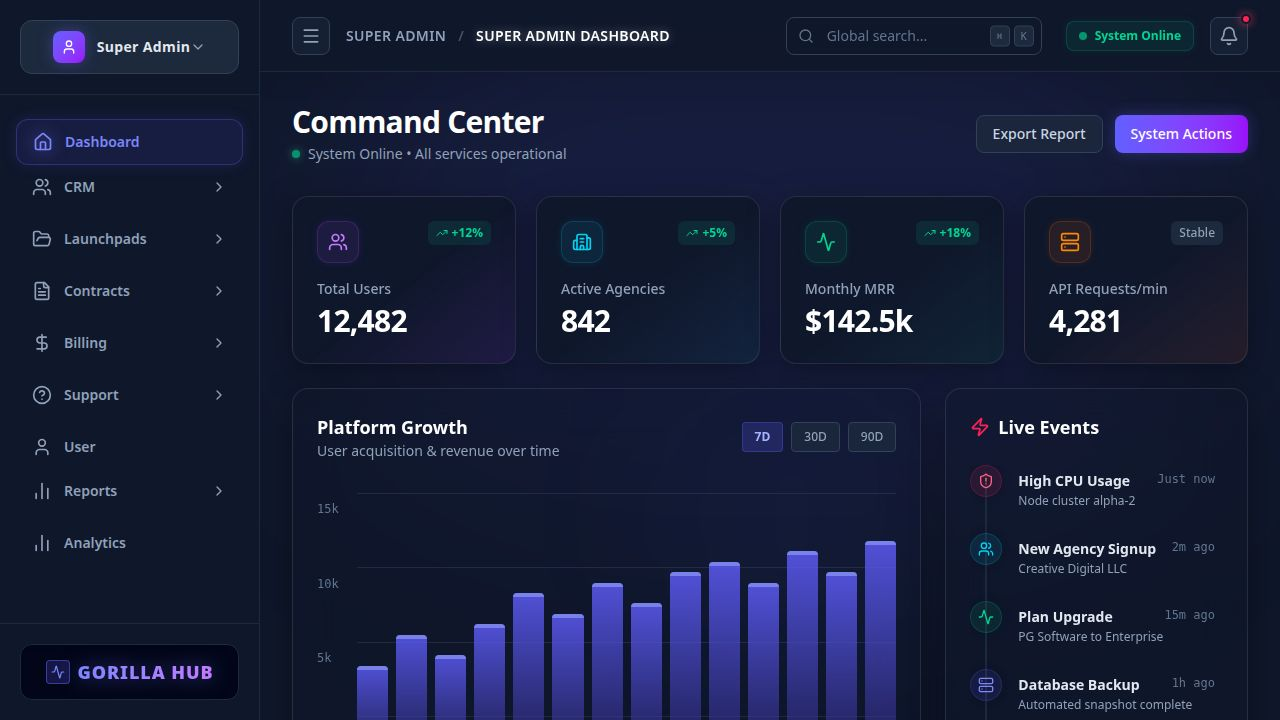
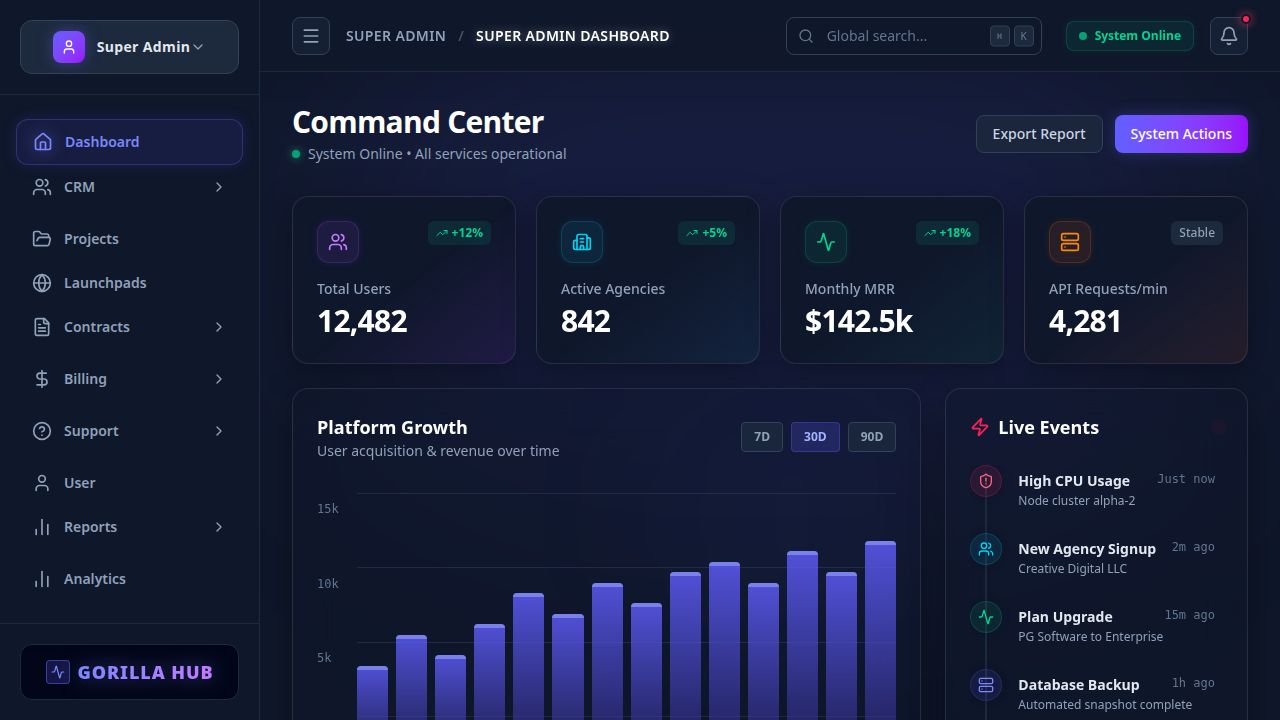
Restructure sidebar navigation and create a dedicated Launchpads page
Update sidebar to separate Projects and Launchpads menus, and introduce a new Launchpads page with detailed project status tracking and management.

Replit-Commit-Author: Agent
Replit-Commit-Session-Id: 2b1c598c-acd6-4f96-ad45-b88a8fb73bb7
Replit-Commit-Checkpoint-Type: full_checkpoint
Replit-Commit-Event-Id: b801060e-dcdf-4483-834c-e267e3411bb5
Replit-Commit-Screenshot-Url: https://storage.googleapis.com/screenshot-production-us-central1/fe088c88-ea6c-465e-aa79-47f37c69ca68/2b1c598c-acd6-4f96-ad45-b88a8fb73bb7/l659ELX
Replit-Helium-Checkpoint-Created: true

diff --git a/client/src/pages/launchpads.tsx b/client/src/pages/launchpads.tsx
@@ -1,0 +1,149 @@
+import { useState } from "react";
+import { Sidebar, Header } from "./clients";
+import { Button } from "@/components/ui/button";
+import { Search, Filter, Download, Plus, Edit, Trash2, Clock, CheckCircle2, PauseCircle, PlayCircle, MoreHorizontal } from "lucide-react";
+import { Link, useLocation } from "wouter";
+
+export default function LaunchpadsPage() {
+  const [location] = useLocation();
+  const [activeFilter, setActiveFilter] = useState('All');
+  
+  const stats = [
+    { label: 'Not Started', count: 3, colorClass: 'border-slate-500', icon: Clock, iconColor: 'text-slate-400', filterValue: 'Not Started' },
+    { label: 'In Progress', count: 2, colorClass: 'border-blue-500', icon: PlayCircle, iconColor: 'text-blue-400', filterValue: 'In Progress' },
+    { label: 'On Hold', count: 0, colorClass: 'border-yellow-500', icon: PauseCircle, iconColor: 'text-yellow-400', filterValue: 'On Hold' },
+    { label: 'Pending Approval', count: 0, colorClass: 'border-orange-500', icon: Clock, iconColor: 'text-orange-400', filterValue: 'Pending Approval' },
+    { label: 'Completed', count: 0, colorClass: 'border-emerald-500', icon: CheckCircle2, iconColor: 'text-emerald-400', filterValue: 'Completed' },
+  ];
+
+  const launchpads = [
+    { name: "Landscaper", client: "Pink Gorilla Software", creator: "Jitender", creatorImg: "J", status: "In Progress" },
+    { name: "Demo 5", client: "Pink Gorilla Software", creator: "PG", creatorImg: "PG", status: "Not Started" },
+    { name: "Test2", client: "Pink Gorilla Software", creator: "Jitender", creatorImg: "J", status: "Not Started" },
+    { name: "Demo 4", client: "Vin Gardner", creator: "PG", creatorImg: "PG", status: "Not Started" },
+    { name: "Demo 3", client: "Pink Gorilla Software", creator: "PG", creatorImg: "PG", status: "In Progress" },
+  ];
+
+  const filteredLaunchpads = activeFilter === 'All' 
+    ? launchpads 
+    : launchpads.filter(l => l.status === activeFilter);
+
+  return (
+    <div className="h-screen w-full overflow-hidden bg-transparent flex font-sans text-[#e2e8f0]">
+      <Sidebar openMenus="" toggleMenu={() => {}} currentPath={location} />
+      
+      <div className="flex-1 flex flex-col min-w-0 bg-[#0f172a] relative">
+        <Header title="Launchpads" />
+        
+        <div className="flex flex-1 overflow-hidden relative z-10">
+          <main className="flex-1 overflow-y-auto p-6 lg:p-8 scrollbar-hide">
+            <div className="max-w-7xl mx-auto space-y-6">
+              
+              {/* Stats Cards Row */}
+              <div className="grid grid-cols-2 md:grid-cols-5 gap-4">
+                {stats.map((stat, idx) => (
+                  <div 
+                    key={idx}
+                    onClick={() => setActiveFilter(stat.filterValue)}
+                    className={`glass-panel p-4 rounded-xl border-t cursor-pointer transition-all hover:-translate-y-1 ${stat.colorClass} ${activeFilter === stat.filterValue ? 'bg-slate-800/50 shadow-[inset_0_-4px_10px_-4px_rgba(255,255,255,0.1)]' : ''}`}
+                  >
+                    <div className="flex items-center gap-3 mb-2">
+                      <div className={`p-1.5 rounded-lg bg-slate-800/80 border border-slate-700`}>
+                        <stat.icon className={`w-4 h-4 ${stat.iconColor}`} />
+                      </div>
+                      <span className="text-sm font-semibold text-slate-300">{stat.label}</span>
+                    </div>
+                    <div className="text-2xl font-bold text-white ml-1">{stat.count}</div>
+                  </div>
+                ))}
+              </div>
+
+              {/* Action Bar */}
+              <div className="flex flex-col md:flex-row justify-between items-center gap-4 glass-panel p-4 rounded-xl">
+                <div className="flex items-center gap-3 w-full md:w-auto">
+                  <div className="relative flex-1 md:min-w-[250px]">
+                    <Search className="absolute left-3 top-1/2 -translate-y-1/2 w-4 h-4 text-slate-500" />
+                    <input 
+                      type="text" 
+                      placeholder="Search..." 
+                      className="w-full pl-10 pr-4 py-2 bg-slate-900/80 border border-slate-700 rounded-lg text-sm text-white focus:outline-none focus:border-purple-500/50 focus:ring-1 focus:ring-purple-500/50 transition-all placeholder:text-slate-500" 
+                    />
+                  </div>
+                  
+                  <button className="px-4 py-2 bg-slate-800 border border-slate-700 rounded-lg text-slate-300 hover:bg-slate-700 hover:text-white transition-all flex items-center gap-2 text-sm font-medium">
+                    Filter <Filter className="w-4 h-4" />
+                  </button>
+                </div>
+                
+                <div className="flex items-center gap-3 w-full md:w-auto">
+                  <button className="px-4 py-2 bg-slate-800 border border-slate-700 rounded-lg text-slate-300 hover:bg-slate-700 hover:text-white transition-all flex items-center gap-2 text-sm font-medium">
+                    <Download className="w-4 h-4" /> Export
+                  </button>
+                  <Button className="bg-purple-600 hover:bg-purple-500 text-white font-bold px-6 py-2 rounded-lg shadow-[0_0_15px_rgba(147,51,234,0.3)] hover:shadow-[0_0_20px_rgba(147,51,234,0.5)] transition-all flex items-center gap-2 border-none">
+                    <Plus className="w-4 h-4" /> Add New Launchpad
+                  </Button>
+                </div>
+              </div>
+
+              {/* Table */}
+              <div className="glass-panel rounded-xl overflow-hidden border-t border-purple-500/20">
+                <table className="w-full text-left dark-table">
+                  <thead>
+                    <tr>
+                      <th className="py-4 px-6 text-sm font-semibold text-slate-400">Launchpad Name</th>
+                      <th className="py-4 px-6 text-sm font-semibold text-slate-400">Client</th>
+                      <th className="py-4 px-6 text-sm font-semibold text-slate-400 text-center">Created By</th>
+                      <th className="py-4 px-6 text-sm font-semibold text-slate-400 text-center">Status</th>
+                      <th className="py-4 px-6 text-sm font-semibold text-slate-400 text-center">Action</th>
+                    </tr>
+                  </thead>
+                  <tbody>
+                    {filteredLaunchpads.map((item, i) => (
+                      <tr key={i} className="border-b border-slate-800/50 hover:bg-slate-800/30 transition-colors">
+                        <td className="py-4 px-6">
+                          <span className="text-sm font-bold text-white hover:text-purple-400 transition-colors cursor-pointer">
+                            {item.name}
+                          </span>
+                        </td>
+                        <td className="py-4 px-6 text-sm text-slate-300">{item.client}</td>
+                        <td className="py-4 px-6">
+                          <div className="flex justify-center">
+                            <div className="flex items-center gap-2">
+                              <div className="w-7 h-7 rounded-full bg-slate-700 flex items-center justify-center text-xs font-bold text-slate-300">
+                                {item.creatorImg}
+                              </div>
+                              <span className="text-sm text-slate-300">{item.creator}</span>
+                            </div>
+                          </div>
+                        </td>
+                        <td className="py-4 px-6 text-center">
+                          <span className={`inline-flex items-center px-3 py-1 rounded-full text-xs font-semibold border ${
+                            item.status === 'Not Started' ? 'text-slate-400 bg-slate-800 border-slate-700' :
+                            item.status === 'In Progress' ? 'text-blue-400 bg-blue-500/10 border-blue-500/20 shadow-[0_0_10px_rgba(59,130,246,0.1)]' :
+                            'text-slate-400 bg-slate-800 border-slate-700'
+                          }`}>
+                            {item.status}
+                          </span>
+                        </td>
+                        <td className="py-4 px-6 text-center">
+                          <div className="flex items-center justify-center gap-3">
+                            <button className="text-slate-400 hover:text-purple-400 transition-colors">
+                              <Edit className="w-4 h-4" />
+                            </button>
+                            <button className="text-slate-400 hover:text-rose-400 transition-colors">
+                              <Trash2 className="w-4 h-4" />
+                            </button>
+                          </div>
+                        </td>
+                      </tr>
+                    ))}
+                  </tbody>
+                </table>
+              </div>
+            </div>
+          </main>
+        </div>
+      </div>
+    </div>
+  );
+}

diff --git a/client/src/pages/clients.tsx b/client/src/pages/clients.tsx
@@ -38,7 +38,8 @@ import {
   UploadCloud,
   Bold,
   Italic,
-  Underline
+  Underline,
+  Rocket
 } from "lucide-react";
 import { Link, useLocation } from "wouter";
 import { useAppStore } from "@/lib/store";
@@ -111,34 +112,39 @@ export function Sidebar({ openMenus, toggleMenu, currentPath }: { openMenus: str
             )}
           </div>
 
-          {/* Launchpads Group */}
+          {/* Projects Group */}
           <div className="relative group">
             <button 
-              onClick={() => sidebarOpen ? toggleMenu('launchpads') : null}
-              className={`w-full flex items-center ${sidebarOpen ? 'justify-between px-4' : 'justify-center px-0'} py-3 rounded-xl transition-all group ${currentPath.includes('/projects') || currentPath.includes('/launchpads') ? 'bg-purple-500/10 text-purple-400 border border-purple-500/30 shadow-[0_0_15px_rgba(168,85,247,0.15)]' : 'text-slate-400 hover:text-[#e2e8f0] hover:bg-slate-800/50'}`}
-              title={!sidebarOpen ? "Launchpads" : ""}
+              onClick={() => sidebarOpen ? toggleMenu('projects') : null}
+              className={`w-full flex items-center ${sidebarOpen ? 'justify-between px-4' : 'justify-center px-0'} py-3 rounded-xl transition-all group ${currentPath.includes('/projects') ? 'bg-purple-500/10 text-purple-400 border border-purple-500/30 shadow-[0_0_15px_rgba(168,85,247,0.15)]' : 'text-slate-400 hover:text-[#e2e8f0] hover:bg-slate-800/50'}`}
+              title={!sidebarOpen ? "Projects" : ""}
             >
               <div className="flex items-center space-x-3">
-                <FolderOpen className={`w-5 h-5 shrink-0 ${currentPath.includes('/projects') || currentPath.includes('/launchpads') ? 'text-purple-400 drop-shadow-[0_0_8px_rgba(168,85,247,0.8)]' : 'group-hover:text-slate-300'}`} />
-                {sidebarOpen && <span className="text-sm font-semibold whitespace-nowrap">Launchpads</span>}
+                <FolderOpen className={`w-5 h-5 shrink-0 ${currentPath.includes('/projects') ? 'text-purple-400 drop-shadow-[0_0_8px_rgba(168,85,247,0.8)]' : 'group-hover:text-slate-300'}`} />
+                {sidebarOpen && <span className="text-sm font-semibold whitespace-nowrap">Projects</span>}
               </div>
-              {sidebarOpen && <ChevronDown className={`w-4 h-4 shrink-0 transition-transform duration-200 ${openMenus === 'launchpads' || currentPath.includes('/projects') || currentPath.includes('/launchpads') ? '' : '-rotate-90'}`} />}
+              {sidebarOpen && <ChevronDown className={`w-4 h-4 shrink-0 transition-transform duration-200 ${openMenus === 'projects' || currentPath.includes('/projects') ? '' : '-rotate-90'}`} />}
             </button>
-            {useAppStore.getState().sidebarOpen && (openMenus === 'launchpads' || currentPath.includes('/projects') || currentPath.includes('/launchpads')) && (
+            {useAppStore.getState().sidebarOpen && (openMenus === 'projects' || currentPath.includes('/projects')) && (
               <div className="py-2 space-y-1 animate-in slide-in-from-top-2 duration-200 pl-4 border-l border-slate-800 ml-6 mt-1">
                 <Link href="/projects">
                   <div className={`block w-[95%] px-3 py-2 text-sm rounded-lg transition-all whitespace-nowrap cursor-pointer ${currentPath.includes('/projects') ? 'bg-purple-500/20 text-purple-300 font-medium' : 'text-slate-400 hover:text-[#e2e8f0] hover:bg-slate-800'}`}>
                     Active Projects
                   </div>
                 </Link>
-                <Link href="/launchpads/templates">
-                  <div className={`block w-[95%] px-3 py-2 text-sm rounded-lg transition-all whitespace-nowrap cursor-pointer ${currentPath.includes('/launchpads/templates') ? 'bg-purple-500/20 text-purple-300 font-medium' : 'text-slate-400 hover:text-[#e2e8f0] hover:bg-slate-800'}`}>
-                    Templates
-                  </div>
-                </Link>
               </div>
             )}
           </div>
+
+          {/* Launchpads Standalone */}
+          <Link href="/launchpads">
+            <div className={`flex items-center ${sidebarOpen ? 'justify-between px-4' : 'justify-center px-0'} py-3 rounded-xl transition-all duration-200 cursor-pointer group ${currentPath.includes('/launchpads') ? 'bg-purple-500/10 text-purple-400 border border-purple-500/30 shadow-[0_0_15px_rgba(168,85,247,0.15)]' : 'text-slate-400 hover:text-[#e2e8f0] hover:bg-slate-800/50'}`}>
+              <div className="flex items-center space-x-3">
+                <Rocket className={`w-5 h-5 shrink-0 ${currentPath.includes('/launchpads') ? 'text-purple-400 drop-shadow-[0_0_8px_rgba(168,85,247,0.8)]' : 'group-hover:text-slate-300'}`} />
+                {sidebarOpen && <span className="text-sm font-semibold whitespace-nowrap">Launchpads</span>}
+              </div>
+            </div>
+          </Link>
 
           {/* Contracts Group */}
           <div className="relative group">
@@ -1410,7 +1416,7 @@ export default function ClientsPage({ isActiveOnly = false }: { isActiveOnly?: b
                 onClick={() => {
                   // Client export logic
                   import('xlsx').then(XLSX => {
-                    const ws = XLSX.utils.json_to_sheet(clientsList);
+                    const ws = XLSX.utils.json_to_sheet(allClients);
                     const wb = XLSX.utils.book_new();
                     XLSX.utils.book_append_sheet(wb, ws, "Clients");
                     XLSX.writeFile(wb, "clients_export.xlsx");

diff --git a/client/src/pages/projects.tsx b/client/src/pages/projects.tsx
@@ -51,16 +51,14 @@ export default function ProjectsPage() {
 
   return (
     <div className="h-screen w-full overflow-hidden bg-transparent flex font-sans text-[#e2e8f0]">
-      <Sidebar openMenus={openMenus} toggleMenu={toggleMenu} currentPath={location} />
+      <Sidebar openMenus="" toggleMenu={() => {}} currentPath={location} />
 
       <div className="flex-1 flex flex-col min-w-0 bg-[#0f172a] relative">
         <Header title="Projects" />
 
-        <main className="flex-1 overflow-y-auto p-6 lg:p-8 relative">
-          <div className="max-w-7xl mx-auto">
-            <h1 className="text-[22px] font-semibold text-white mb-6">Projects</h1>
-
-            <div className="flex items-center justify-between mb-8">
+        <main className="flex-1 overflow-y-auto p-6 lg:p-8 relative scrollbar-hide">
+          <div className="max-w-7xl mx-auto space-y-6">
+            <div className="flex items-center justify-between">
               <div className="flex items-center gap-3">
                 <span className="text-sm font-medium text-slate-300">View:</span>
                 <div className="flex items-center gap-2">

diff --git a/client/src/App.tsx b/client/src/App.tsx
@@ -19,6 +19,7 @@ import PaymentsPage from "@/pages/payments";
 import ContractsPage from "@/pages/contracts";
 import ContractDetailsPage from "@/pages/contract-details";
 import TemplatesPage from "@/pages/templates";
+import LaunchpadsPage from "@/pages/launchpads";
 import TicketsPage from "@/pages/tickets";
 import TicketCreatePage from "@/pages/tickets-create";
 import TicketDetailsPage from "@/pages/ticket-details";
@@ -45,6 +46,7 @@ function Router() {
       <Route path="/tasks" component={TasksPage} />
       <Route path="/projects" component={ProjectsPage} />
       <Route path="/projects/:id" component={ProjectDetailsPage} />
+      <Route path="/launchpads" component={LaunchpadsPage} />
       <Route path="/invoices" component={InvoicesPage} />
       <Route path="/invoices/:id" component={InvoiceDetailsPage} />
       <Route path="/subscriptions" component={SubscriptionsPage} />
